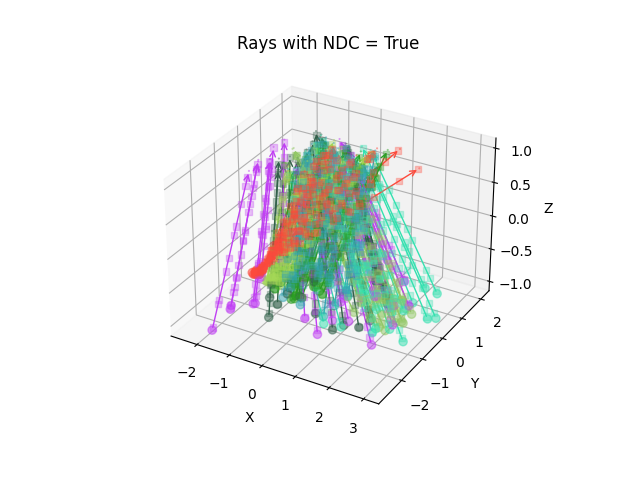
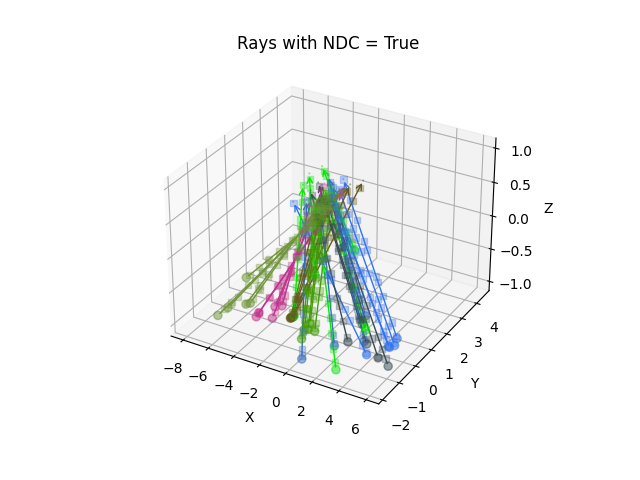
v0.1.3 normalize 3D points without using NDC. training

diff --git a/datasets/llff.py b/datasets/llff.py
@@ -87,6 +87,55 @@ def center_poses(poses):
     return poses_centered, np.linalg.inv(pose_avg_homo)
 
 
+def scale_and_center_rays(
+    rays: torch.Tensor, scale: float = None, avg_point: torch.Tensor = None
+) -> torch.Tensor:
+    """
+    Scale and then center rays so that xyz coordinates of points in every ray are within [-1,1].
+    Note that the avg_point is the average of the points AFTER the scaling.
+    Inputs:
+        rays: (N_rays, 8)
+        scale: float, the scale to apply to the points. Default to be None --> calculate it
+        avg_point: (3) the average point of the SCALED 3D points. Default to be None --> calculate it
+    Outputs:
+        points_centered: (N_points, 3) the scaled, centered 3D points
+    """
+    N_rays = rays.shape[0]
+    rays_o, rays_d = rays[:, 0:3], rays[:, 3:6]  # both (N_rays, 3)
+    near, far = rays[:, 6:7], rays[:, 7:8]  # both (N_rays, 1)
+
+    # Scale the points
+    if scale is None:
+        max_abs_rays_o_dim = torch.max(torch.abs(rays_o))
+        scale = 1.0 / (max_abs_rays_o_dim + torch.max(far))
+
+    rays_o = rays_o * scale
+    near = near * scale
+    far = far * scale
+    # TODO: remove
+    # rays_d = rays_d * scale
+    nearest_points = rays_o + near * rays_d  # (N_rays, 3)
+    farthest_points = rays_o + far * rays_d  # (N_rays, 3)
+    points = torch.cat([nearest_points, farthest_points], 0)  # (2*N_rays, 3)
+    if avg_point is None:
+        print(
+            f"[Warn] {__file__}: avg_point is not given. A calculation of this point is performed! Make sure that this avg_point is consistent across train and test"
+        )
+        avg_point = points.mean(0)
+    else:
+        avg_point = avg_point.view(1, 3)
+        assert torch.abs(avg_point).max() <= 1.0, "avg_point should be within [-1,1]"
+
+    # Center points
+    # TODO: - avg_point here?
+    rays[:, 6:7] = near - avg_point[0, -1]
+    rays[:, 7:8] = far - avg_point[0, -1]
+
+    rays[:, 0:3] = rays_o - avg_point
+    # TODO: remove
+    return rays, avg_point, scale
+
+
 def create_spiral_poses(radii, focus_depth, n_poses=120):
     """
     Computes poses that follow a spiral path for rendering purpose.
@@ -176,18 +225,32 @@ class LLFFDataset(Dataset):
         spheric_poses=False,
         val_num=1,
         use_NDC: bool = True,
+        normalize_sampled_points: bool = False,
+        center_3dpoints: torch.Tensor = None,
+        rays_scale_factor: float = None,
     ):
         """
         spheric_poses: whether the images are taken in a spheric inward-facing manner
                        default: False (forward-facing)
-        use_NDC: whether to use NDC or not. This only affects when spheric_poses is False
         val_num: number of val images (used for multigpu training, validate same image for all gpus)
+        use_NDC: whether to use NDC or not. This only affects when spheric_poses is False
+        normalize_sample_points: whether to normalize sample points to [-1, 1] without using NDC
+        center_3dpoints: the average ray origin. This is used to shift rays so that the average sampled points is within [-1, 1]
+        rays_scale_factor: the scale factor for rays. This is used to scale rays so that the average sampled points is within [-1, 1]
         """
         self.root_dir = root_dir
         self.split = split
         self.img_wh = img_wh
         self.spheric_poses = spheric_poses
         self.use_NDC = use_NDC
+        self.normalize_sampled_points = normalize_sampled_points
+        assert (
+            not self.use_NDC or not self.normalize_sampled_points
+        ), "NDC and normalize_sampled_points cannot be used together!"
+        if self.normalize_sampled_points:
+            self.center_3dpoints = torch.Tensor(center_3dpoints)
+            self.rays_scale_factor = rays_scale_factor
+
         self.val_num = max(1, val_num)  # at least 1
         self.define_transforms()
 
@@ -225,16 +288,17 @@ class LLFFDataset(Dataset):
         distances_from_center = np.linalg.norm(self.poses[..., 3], axis=1)
         val_idx = np.argmin(distances_from_center)  # choose val image as the closest to
         # center image
-
         # Step 3: correct scale so that the nearest depth is at a little more than 1.0
         # See https://github.com/bmild/nerf/issues/34
-        near_original = self.bounds.min()
-        scale_factor = near_original * 0.75  # 0.75 is the default parameter
-        # the nearest depth is at 1/0.75=1.33
-        self.bounds /= scale_factor
-        # Scale depth values
-        self.poses[..., 3] /= scale_factor
-        # End of step 3
+        # TODO: apply this to sound_nerf
+        if self.use_NDC:
+            near_original = self.bounds.min()
+            scale_factor = near_original * 0.75  # 0.75 is the default parameter
+            # the nearest depth is at 1/0.75=1.33
+            self.bounds /= scale_factor
+            # Scale depth values
+            self.poses[..., 3] /= scale_factor
+            # End of step 3
 
         # ray directions for all pixels, same for all images (same H, W, focal)
         self.directions = get_ray_directions(
@@ -275,10 +339,10 @@ class LLFFDataset(Dataset):
                     near = self.bounds.min()
                     # TODO: in case not using spheric_poses, increase this magic number (8)
                     # Because in the Replica dataset, min_d can be 0.4 while max_d can be up to 4.5
+                    # TODO: remove 10 if the scene's dimension is wider than 10m
                     far = min(
-                        8 * near, self.bounds.max()
+                        8 * near, self.bounds.max(), 10
                     )  # focus on central object only
-
                 self.all_rays += [
                     torch.cat(
                         [
@@ -293,6 +357,20 @@ class LLFFDataset(Dataset):
 
             self.all_rays = torch.cat(self.all_rays, 0)  # ((N_images-1)*h*w, 8)
             self.all_rgbs = torch.cat(self.all_rgbs, 0)  # ((N_images-1)*h*w, 3)
+
+            # Normalize the coordinate of 3D points
+            if self.normalize_sampled_points:
+                (
+                    self.all_rays,
+                    center_3dpoints,
+                    rays_scale_factor,
+                ) = scale_and_center_rays(
+                    self.all_rays,
+                    scale=self.rays_scale_factor,
+                    avg_point=self.center_3dpoints,
+                )
+                self.center_3dpoints = center_3dpoints
+                self.rays_scale_factor = rays_scale_factor
 
         elif self.split == "val":
             print("val image is", self.image_paths[val_idx])
@@ -334,17 +412,19 @@ class LLFFDataset(Dataset):
                 c2w = torch.FloatTensor(self.poses_test[idx])
 
             rays_o, rays_d = get_rays(self.directions, c2w)
-            if not self.spheric_poses:
+            if not self.spheric_poses and self.use_NDC:
                 near, far = 0, 1
                 rays_o, rays_d = get_ndc_rays(
                     self.img_wh[1], self.img_wh[0], self.focal, 1.0, rays_o, rays_d
                 )
             else:
                 near = self.bounds.min()
-
-                # TODO: for now, make sure that we always sample the end point
-                far = self.bounds.max() * 1.05
-                # far = min(8 * near, self.bounds.max())
+                # TODO: in case not using spheric_poses, increase this magic number (8)
+                # Because in the Replica dataset, min_d can be 0.4 while max_d can be up to 4.5
+                # TODO: remove 10 if the scene's dimension is wider than 10m
+                far = min(
+                    8 * near, self.bounds.max(), 10
+                )  # focus on central object only
 
             rays = torch.cat(
                 [
@@ -355,6 +435,10 @@ class LLFFDataset(Dataset):
                 ],
                 1,
             )  # (h*w, 8)
+            if self.normalize_sampled_points:
+                (rays, _, _,) = scale_and_center_rays(
+                    rays, scale=self.rays_scale_factor, avg_point=self.center_3dpoints,
+                )
 
             sample = {"rays": rays, "c2w": c2w}
 

diff --git a/test_scripts/test_ray_sampling.py b/test_scripts/test_ray_sampling.py
@@ -1,14 +1,14 @@
 import os, sys
 from typing import NamedTuple
-from nerf_pl.opt import get_opts
+from opt import get_opts
 import torch
 from collections import defaultdict
 
 from torch.utils.data import DataLoader
-from nerf_pl.datasets import dataset_dict
+from datasets import dataset_dict
 
 # optimizer, scheduler, visualization
-from nerf_pl.utils import *
+from utils import *
 import matplotlib.pyplot as plt
 from mpl_toolkits import mplot3d
 from matplotlib.patches import FancyArrowPatch
@@ -65,7 +65,8 @@ def prepare_data(hparams):
     if hparams.dataset_name == "llff":
         kwargs["spheric_poses"] = hparams.spheric_poses
         kwargs["val_num"] = hparams.num_gpus
-        kwargs["use_NDC"] = not hparams.no_NDC
+        kwargs["use_NDC"] = hparams.ray_to_NDC
+        kwargs["normalize_sampled_points"] = hparams.normalize_sampled_points
     train_dataset = dataset(split="train", **kwargs)
     return train_dataset
 
@@ -78,7 +79,7 @@ def visual_points(ax: mplot3d.Axes3D, points: torch.Tensor, colors: np.ndarray) 
     """
     points = points.numpy()
     ax.scatter(
-        points[:, 0], points[:, 1], points[:, 2], alpha=0.3, marker="s", s=20, c=colors
+        points[:, 0], points[:, 1], points[:, 2], alpha=0.3, marker=".", s=20, c=colors
     )
 
 
@@ -110,12 +111,12 @@ def visual_rays(ax: plt.axes, rays: torch.Tensor, colors: np.ndarray = None) -> 
     near = near.numpy()
     far = far.numpy()
     # Add
-    directions = directions * (far - near)
+    directions = directions * far  # (far - near)
 
     # Plot the rays
     # Plot origins
     ax.scatter(
-        points[:, 0], points[:, 1], points[:, 2], alpha=0.5, marker="o", s=35, c=colors
+        points[:, 0], points[:, 1], points[:, 2], alpha=0.5, marker="s", s=45, c=colors
     )
     # Plot ending points
     ax.scatter(
@@ -184,9 +185,20 @@ def test_ray_sampling(hparams: NamedTuple):
     ax.set_xlabel("X")
     ax.set_ylabel("Y")
     ax.set_zlabel("Z")
-    plt.title(f"Rays with NDC = {not hparams.no_NDC}")
-    plt.savefig(f"assets/rays_with_NDC={not hparams.no_NDC}.png")
+    plt.autoscale(enable=False, axis="both", tight=True)
+    plt.title(
+        f"Rays with NDC = {hparams.ray_to_NDC} | normalize sampled points = {hparams.normalize_sampled_points}"
+    )
+    plt.savefig(
+        f"assets/rays_with_NDC={hparams.ray_to_NDC}_normalize_sampled_points={hparams.normalize_sampled_points}.png"
+    )
     plt.show()
+
+    if hparams.normalize_sampled_points:
+        print(f"[Info] Ray scale factor: {dataset.rays_scale_factor}")
+        print(
+            f"[Info] Center point of all 3D sampled points: {dataset.center_3dpoints}"
+        )
 
 
 if __name__ == "__main__":
@@ -196,9 +208,20 @@ if __name__ == "__main__":
     IMG_W = 640  # image width (do not set too large)
     IMG_H = 360  # image height (do not set too large)
     hparams.dataset_name = "llff"
-    hparams.no_NDC = True  # Use NDC
     hparams.root_dir = ROOT_DIR
     hparams.img_wh = (IMG_W, IMG_H)
     hparams.N_samples = 10
+    hparams.split = "val"
 
+    # # Test ray sampling with NDC
+    hparams.ray_to_NDC = True  # Use NDC
+    test_ray_sampling(hparams)
+
+    # Test ray sampling without NDC
+    hparams.ray_to_NDC = False  # NOT Use NDC
+    test_ray_sampling(hparams)
+
+    # Test ray sampling without NDC but normalize_sampled_points
+    hparams.ray_to_NDC = False  # NOT Use NDC
+    hparams.normalize_sampled_points = True
     test_ray_sampling(hparams)

diff --git a/opt.py b/opt.py
@@ -1,6 +1,10 @@
 import argparse
 
 
+def str2bool(s):
+    return False if s.lower() == "false" else True
+
+
 def get_opts():
     parser = argparse.ArgumentParser()
 
@@ -47,10 +51,29 @@ def get_opts():
         help="use disparity depth sampling",
     )
     parser.add_argument(
-        "--no_NDC",
+        "--ray_to_NDC",
+        default=True,
+        type=str2bool,
+        help="Convert the camera poses to the NDC? By default, False. This only affects when --spheric_poses is False",
+    )
+    parser.add_argument(
+        "--normalize_sampled_points",
         default=False,
-        action="store_true",
-        help="Convert the camera poses to the NDC? By default, True. This only affects when --spheric_poses is False",
+        type=str2bool,
+        help="Convert the camera poses to [-1, 1] range? By default, True. This only affects when --spheric_poses is False",
+    )
+    parser.add_argument(
+        "--center_3dpoints",
+        default=[-0.0028, 0.0005, -0.3630],
+        type=float,
+        nargs="+",
+        help="Center of sampled 3D points. This is used with --normalize_sampled_points set True",
+    )
+    parser.add_argument(
+        "--rays_scale_factor",
+        default=0.065,
+        type=float,
+        help="Multiplication factor to 3D points before centering to make their coordinates to be within [-1, 1]. This is used with --normalize_sampled_points set True",
     )
     parser.add_argument(
         "--perturb",

diff --git a/train.py b/train.py
@@ -82,7 +82,10 @@ class NeRFSystem(LightningModule):
         if self.hparams.dataset_name == "llff":
             kwargs["spheric_poses"] = self.hparams.spheric_poses
             kwargs["val_num"] = self.hparams.num_gpus
-            kwargs["use_NDC"] = not self.hparams.no_NDC
+            kwargs["normalize_sampled_points"] = self.hparams.normalize_sampled_points
+            kwargs["rays_scale_factor"] = self.hparams.rays_scale_factor
+            kwargs["center_3dpoints"] = self.hparams.center_3dpoints
+            kwargs["use_NDC"] = self.hparams.ray_to_NDC
         self.train_dataset = dataset(split="train", **kwargs)
         self.val_dataset = dataset(split="val", **kwargs)
 

diff --git a/models/rendering.py b/models/rendering.py
@@ -227,6 +227,9 @@ def render_rays(
         2
     )  # (N_rays, N_samples, 3)
 
+    assert torch.all(
+        torch.abs(xyz_coarse_sampled) <= 1
+    ), "[Error] Sampled 3D points must be within [-1,1]"
     if test_time:
         weights_coarse = inference(
             model_coarse,

diff --git a/__init__.py b/__init__.py
@@ -1,1 +1,1 @@
-__version__ = "0.1.2"
+__version__ = "0.1.3"
